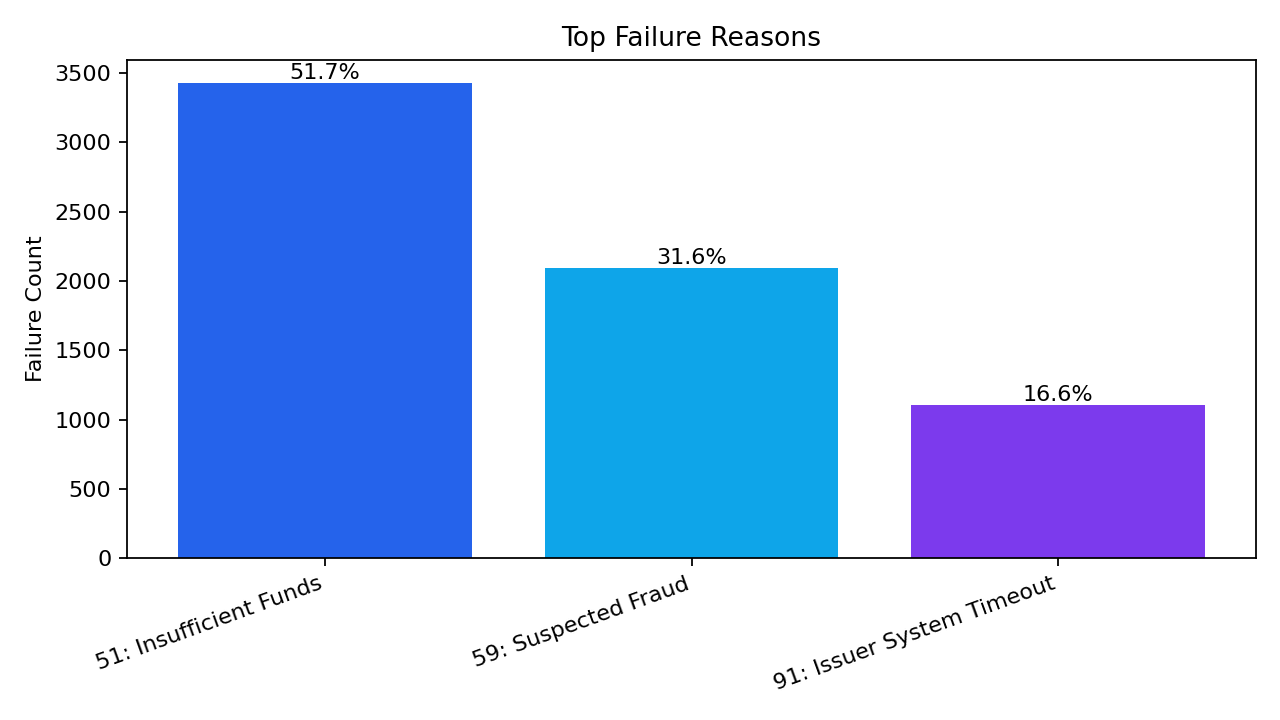
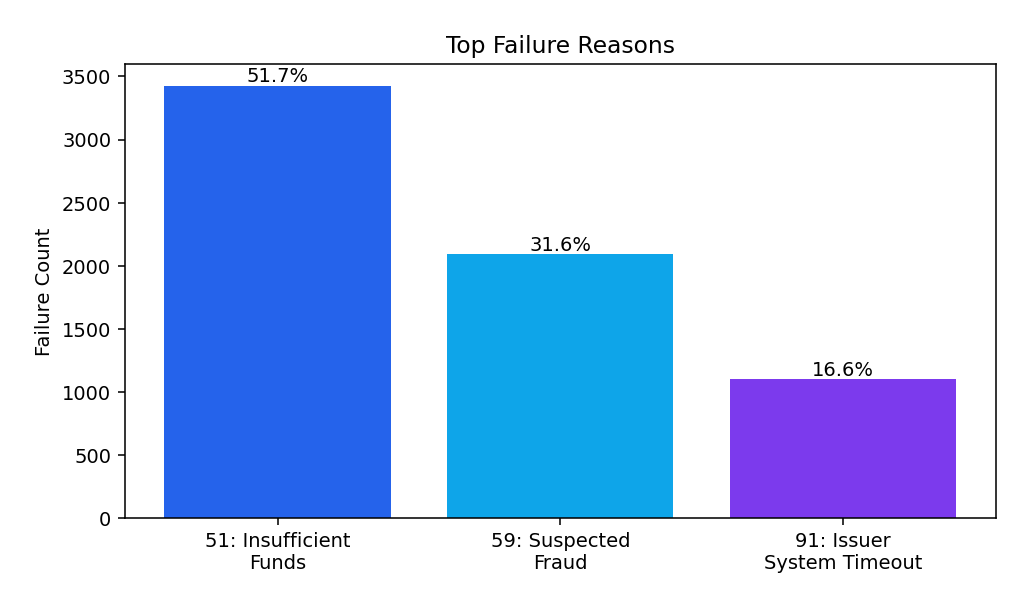
Refine README chart visuals.
Improve chart layout, label readability, and add concise interpretation lines under each visual.

Made-with: Cursor

Changed region(s): [[0.0, 0.0312, 0.9942, 0.9375], [0.5903, 0.9375, 0.6214, 0.9688], [0.0621, 0.9062, 0.0932, 0.9375]]

diff --git a/docs/generate_readme_charts.py b/docs/generate_readme_charts.py
@@ -2,6 +2,7 @@ from pathlib import Path
 
 import matplotlib.pyplot as plt
 import pandas as pd
+from textwrap import fill
 
 
 ROOT = Path(__file__).resolve().parents[1]
@@ -13,15 +14,17 @@ def chart_failure_mix() -> None:
     df = pd.read_csv(ROOT / "Tables" / "Error Pareto Analysis.csv")
     top = df.sort_values("Failure_Count", ascending=False).head(3)
 
-    plt.figure(figsize=(8, 4.5))
-    bars = plt.bar(top["Error_Reason"], top["Failure_Count"], color=["#2563EB", "#0EA5E9", "#7C3AED"])
+    labels = [fill(str(v), width=16) for v in top["Error_Reason"]]
+
+    plt.figure(figsize=(7.2, 4.2))
+    bars = plt.bar(labels, top["Failure_Count"], color=["#2563EB", "#0EA5E9", "#7C3AED"])
     plt.title("Top Failure Reasons")
     plt.ylabel("Failure Count")
-    plt.xticks(rotation=20, ha="right")
+    plt.xticks(rotation=0, ha="center")
     for bar, pct in zip(bars, top["Pct_of_Failures"]):
         plt.text(bar.get_x() + bar.get_width() / 2, bar.get_height(), f"{pct:.1f}%", ha="center", va="bottom")
-    plt.tight_layout()
-    plt.savefig(VIS_DIR / "01-failure-mix.png", dpi=160)
+    plt.tight_layout(pad=1.2)
+    plt.savefig(VIS_DIR / "01-failure-mix.png", dpi=140, bbox_inches="tight", pad_inches=0.25)
     plt.close()
 
 
@@ -31,17 +34,17 @@ def chart_retry_recovery() -> None:
     recovered = int(df["Recovered_Txns"].sum())
     unrecovered = total_failures - recovered
 
-    plt.figure(figsize=(6, 4.5))
+    plt.figure(figsize=(6.6, 4.1))
     plt.pie(
         [recovered, unrecovered],
-        labels=["Recovered within 24h", "Not recovered within 24h"],
+        labels=["Recovered (within 24h)", "Not recovered (within 24h)"],
         colors=["#16A34A", "#DC2626"],
         autopct="%1.1f%%",
         startangle=140,
     )
     plt.title("Retry Recovery Opportunity")
-    plt.tight_layout()
-    plt.savefig(VIS_DIR / "02-retry-recovery.png", dpi=160)
+    plt.tight_layout(pad=1.1)
+    plt.savefig(VIS_DIR / "02-retry-recovery.png", dpi=140, bbox_inches="tight", pad_inches=0.25)
     plt.close()
 
 
@@ -50,19 +53,21 @@ def chart_holdout_confusion() -> None:
     row = df.iloc[0]
     matrix = [[int(row["tn"]), int(row["fp"])], [int(row["fn"]), int(row["tp"])]]
 
-    fig, ax = plt.subplots(figsize=(5.8, 4.8))
+    fig, ax = plt.subplots(figsize=(6.4, 4.3))
     im = ax.imshow(matrix, cmap="Blues")
     ax.set_xticks([0, 1], labels=["Pred: Non-Fraud", "Pred: Fraud"])
     ax.set_yticks([0, 1], labels=["Actual: Non-Fraud", "Actual: Fraud"])
     ax.set_title("Holdout Confusion Matrix")
+    ax.tick_params(axis="x", labelrotation=0, pad=6)
+    ax.tick_params(axis="y", pad=8)
 
     for i in range(2):
         for j in range(2):
             ax.text(j, i, f"{matrix[i][j]:,}", ha="center", va="center", color="#111827", fontsize=11)
 
     fig.colorbar(im, ax=ax, fraction=0.046, pad=0.04)
-    plt.tight_layout()
-    plt.savefig(VIS_DIR / "03-holdout-confusion.png", dpi=160)
+    plt.tight_layout(pad=1.1)
+    plt.savefig(VIS_DIR / "03-holdout-confusion.png", dpi=140, bbox_inches="tight", pad_inches=0.25)
     plt.close()
 
 

diff --git a/README.md b/README.md
@@ -48,9 +48,20 @@ flowchart LR
 
 ### Data Charts
 
-![Top Failure Reasons](docs/visuals/01-failure-mix.png)
-![Retry Recovery Opportunity](docs/visuals/02-retry-recovery.png)
-![Holdout Confusion Matrix](docs/visuals/03-holdout-confusion.png)
+<p align="center">
+  <img src="docs/visuals/01-failure-mix.png" alt="Top Failure Reasons" width="760" />
+</p>
+Top failure reasons are concentrated in a small set of decline categories, helping prioritize the highest-impact fixes first.
+
+<p align="center">
+  <img src="docs/visuals/02-retry-recovery.png" alt="Retry Recovery Opportunity" width="620" />
+</p>
+A meaningful share of failed transactions later succeeded within 24 hours, indicating a clear retry timing opportunity.
+
+<p align="center">
+  <img src="docs/visuals/03-holdout-confusion.png" alt="Holdout Confusion Matrix" width="640" />
+</p>
+Holdout evaluation shows strong fraud capture with low review noise at the selected operating threshold.
 
 ## Project Objectives
 
